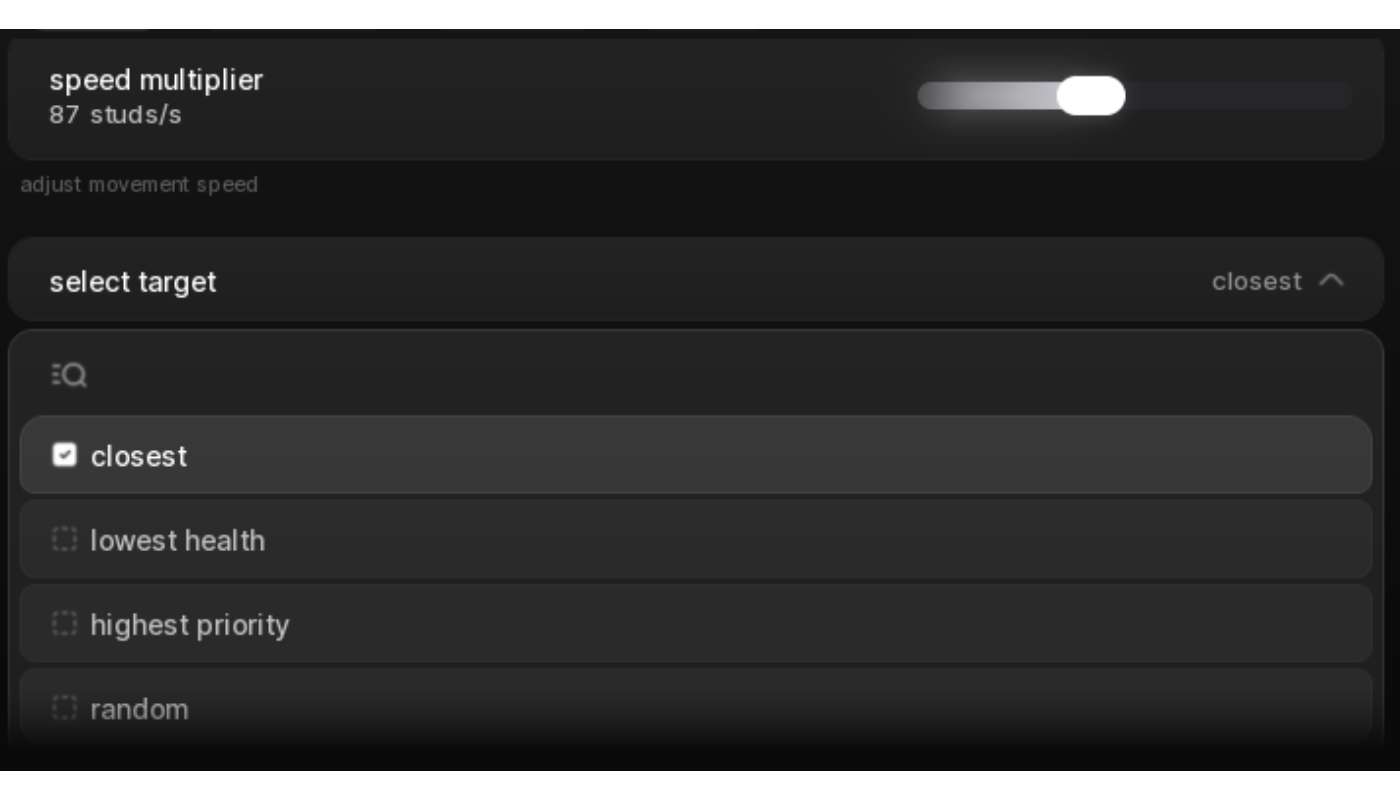
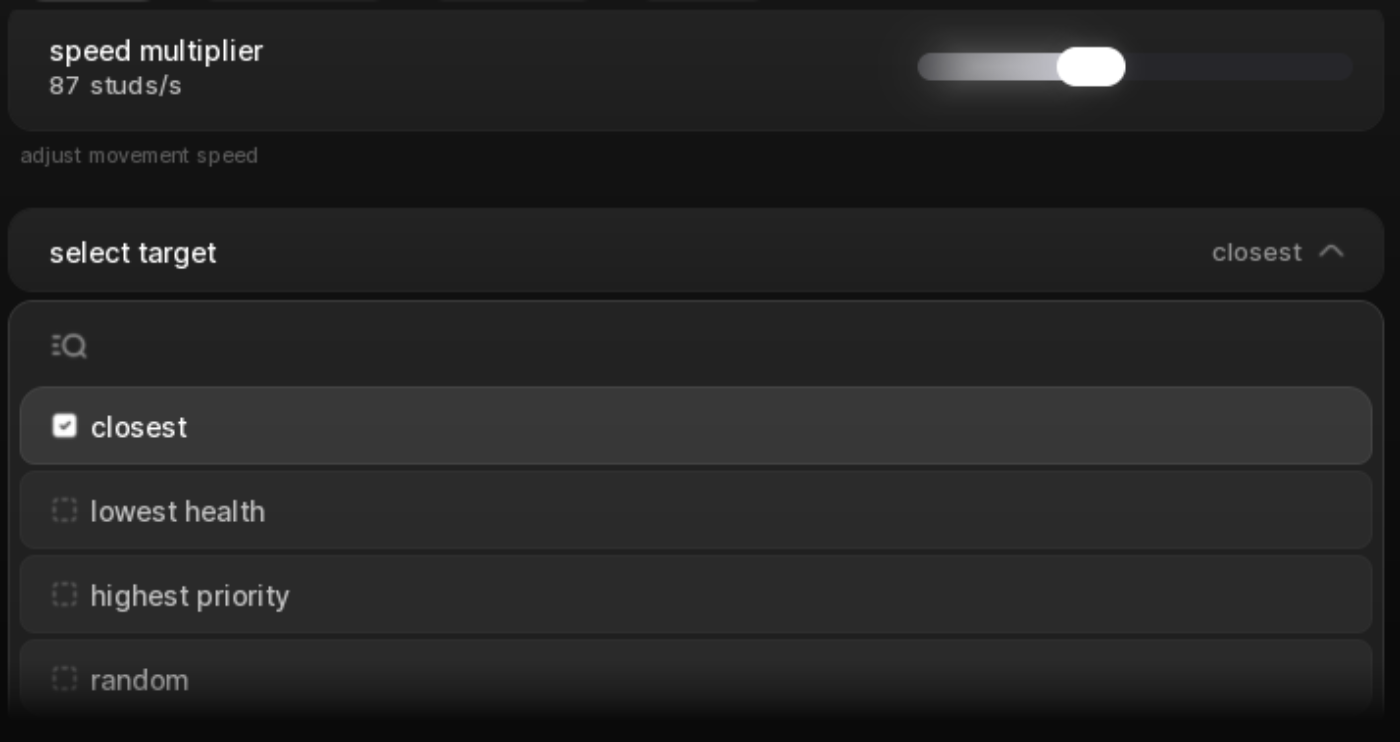
style(docs): crop preview image margins and enhance preview frame presentation

diff --git a/docs/index.html b/docs/index.html
@@ -471,55 +471,66 @@
 
     /* Modern Screenshot & Preview Frames */
     .preview-frame {
-      background: var(--bg-card);
-      border: 1px solid var(--border);
-      border-radius: var(--radius);
+      background: #0e0e11;
+      border: 1px solid rgba(255, 255, 255, 0.08);
+      border-radius: 10px;
       margin: 1.25rem 0 1.75rem 0;
       overflow: hidden;
-      box-shadow: 0 12px 30px rgba(0, 0, 0, 0.4);
+      box-shadow: 0 16px 36px rgba(0, 0, 0, 0.5);
+      transition: border-color 0.2s, transform 0.2s;
+    }
+    .preview-frame:hover {
+      border-color: rgba(255, 255, 255, 0.16);
     }
     .preview-header {
       display: flex;
       align-items: center;
       justify-content: space-between;
-      padding: 0.6rem 0.9rem;
-      background: rgba(255, 255, 255, 0.02);
-      border-bottom: 1px solid var(--border);
+      padding: 0.65rem 1rem;
+      background: #141418;
+      border-bottom: 1px solid rgba(255, 255, 255, 0.06);
     }
     .preview-dots {
       display: flex;
-      gap: 5px;
+      gap: 6px;
     }
     .preview-dot {
-      width: 8px;
-      height: 8px;
+      width: 9px;
+      height: 9px;
       border-radius: 50%;
       background: rgba(255, 255, 255, 0.15);
     }
     .preview-caption {
-      font-size: 0.74rem;
-      color: var(--text-dim);
+      font-size: 0.76rem;
+      color: var(--text-muted);
       font-family: 'JetBrains Mono', monospace;
+      font-weight: 500;
     }
     .preview-badge {
-      font-size: 0.65rem;
-      background: rgba(255, 255, 255, 0.06);
-      color: var(--text-muted);
-      padding: 1px 5px;
-      border-radius: 3px;
+      font-size: 0.68rem;
+      background: rgba(255, 255, 255, 0.08);
+      color: #e4e4e7;
+      padding: 2px 7px;
+      border-radius: 4px;
+      font-weight: 600;
+      font-family: 'JetBrains Mono', monospace;
     }
     .preview-img-wrap {
       position: relative;
-      background: #0d0d10;
-      min-height: 220px;
+      background: #09090b;
       display: flex;
       align-items: center;
       justify-content: center;
+      padding: 1.5rem 1.25rem;
+      min-height: 140px;
     }
     .preview-img-wrap img {
-      width: 100%;
+      max-width: 100%;
       height: auto;
+      object-fit: contain;
       display: block;
+      border-radius: 6px;
+      box-shadow: 0 8px 24px rgba(0, 0, 0, 0.4);
     }
     .preview-fallback {
       display: none;
@@ -565,14 +576,17 @@
     .showcase-grid {
       display: grid;
       grid-template-columns: repeat(2, 1fr);
-      gap: 1rem;
+      gap: 1.25rem;
       margin: 1.25rem 0 2rem 0;
     }
     .showcase-grid .preview-frame {
       margin: 0;
+      display: flex;
+      flex-direction: column;
     }
     .showcase-grid .preview-img-wrap {
-      min-height: 160px;
+      flex: 1;
+      padding: 1.75rem 1.25rem;
     }
 
     /* Search Modal */
